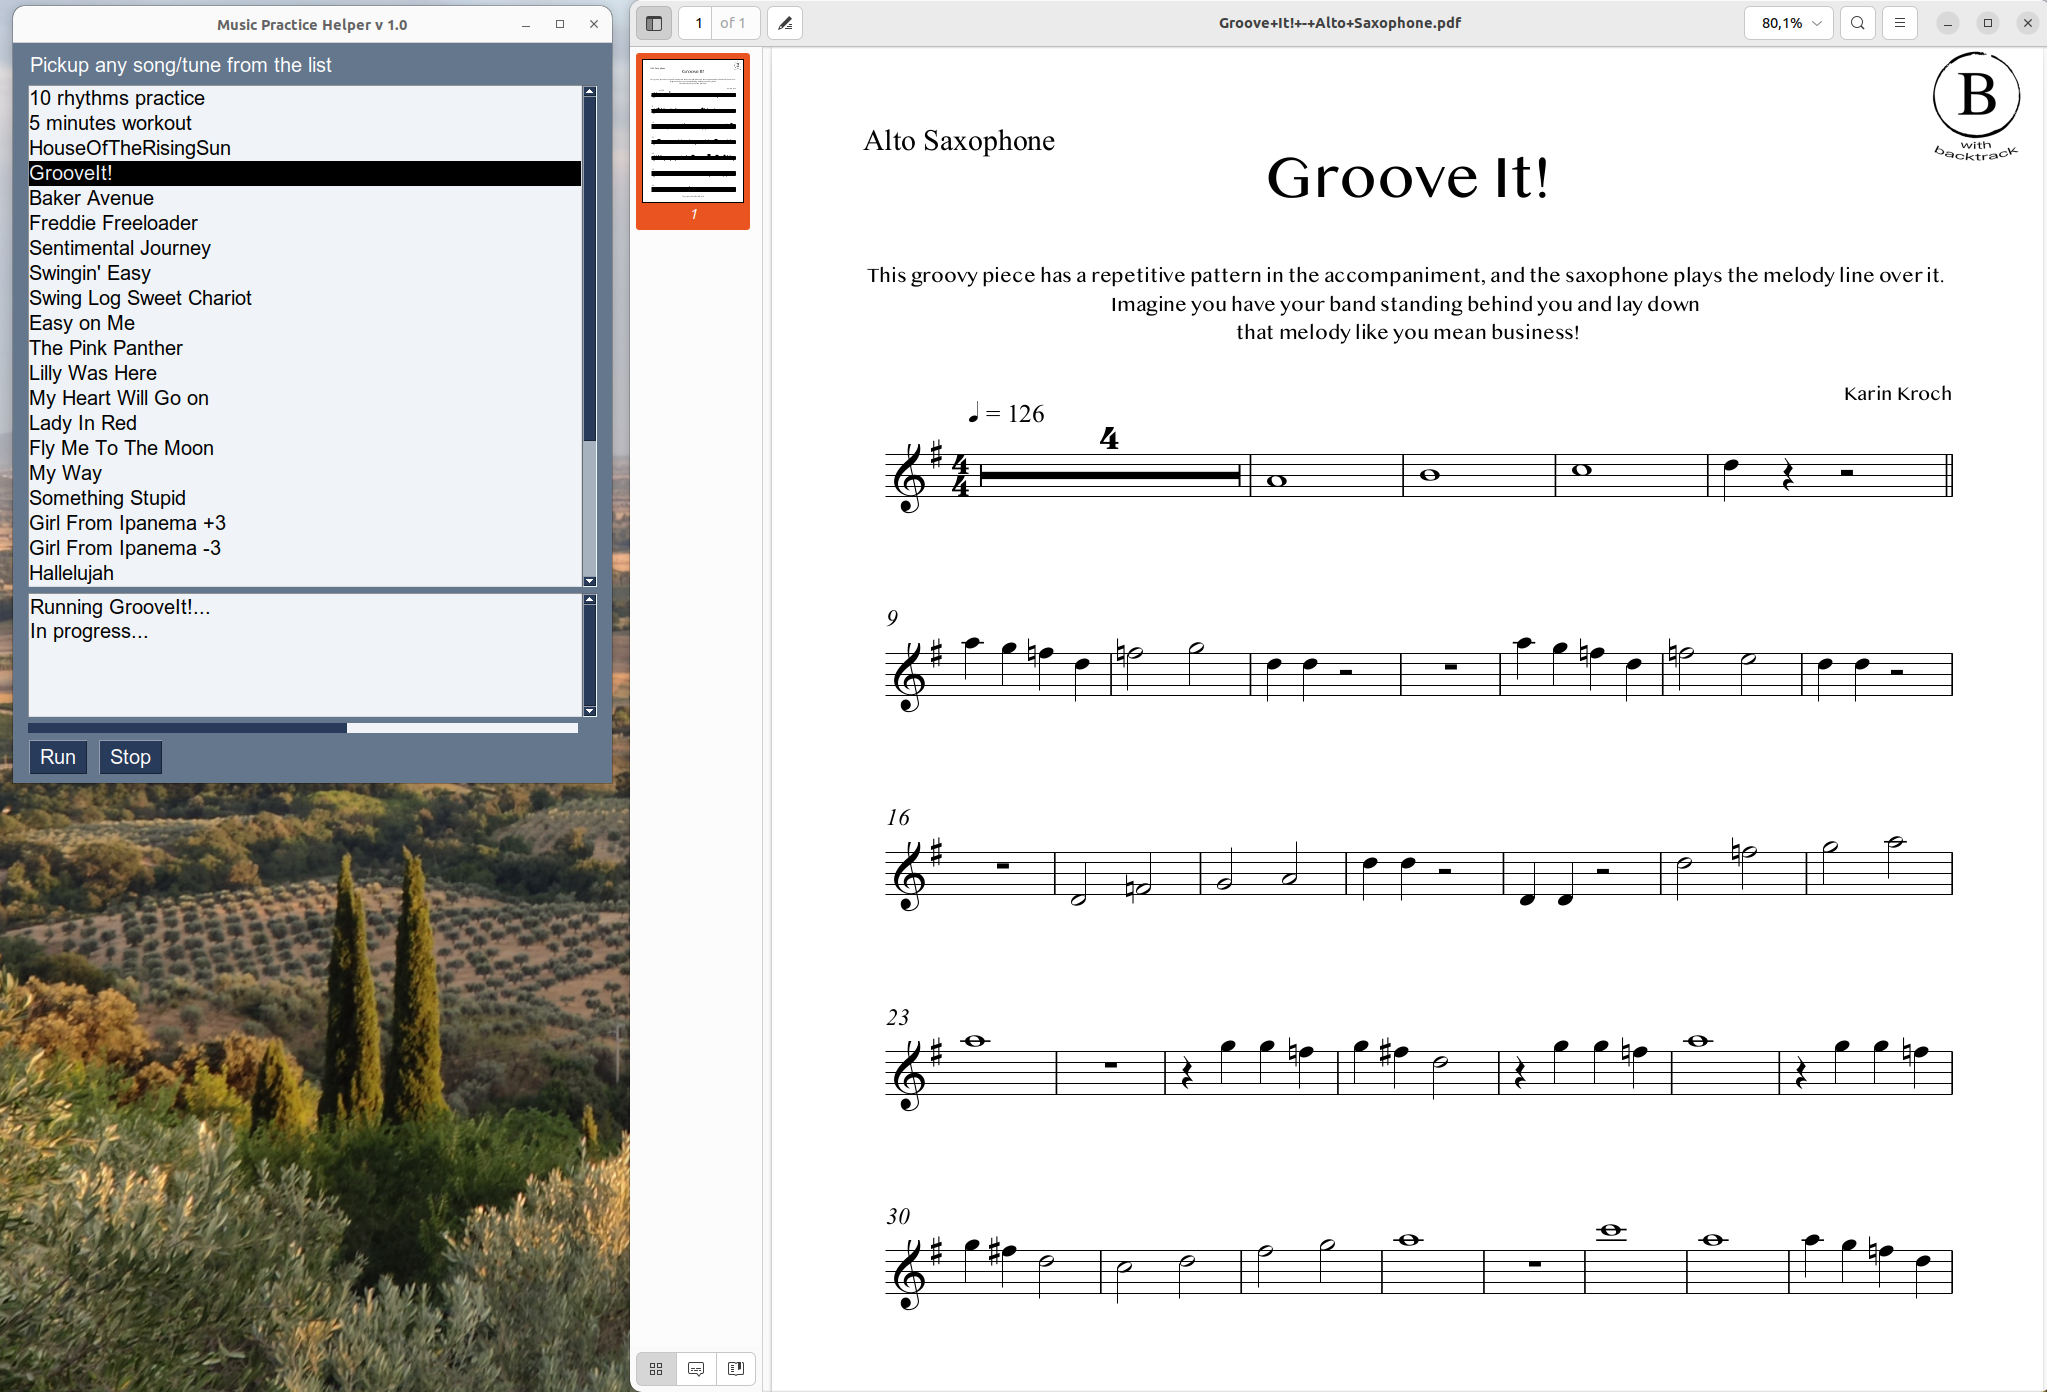
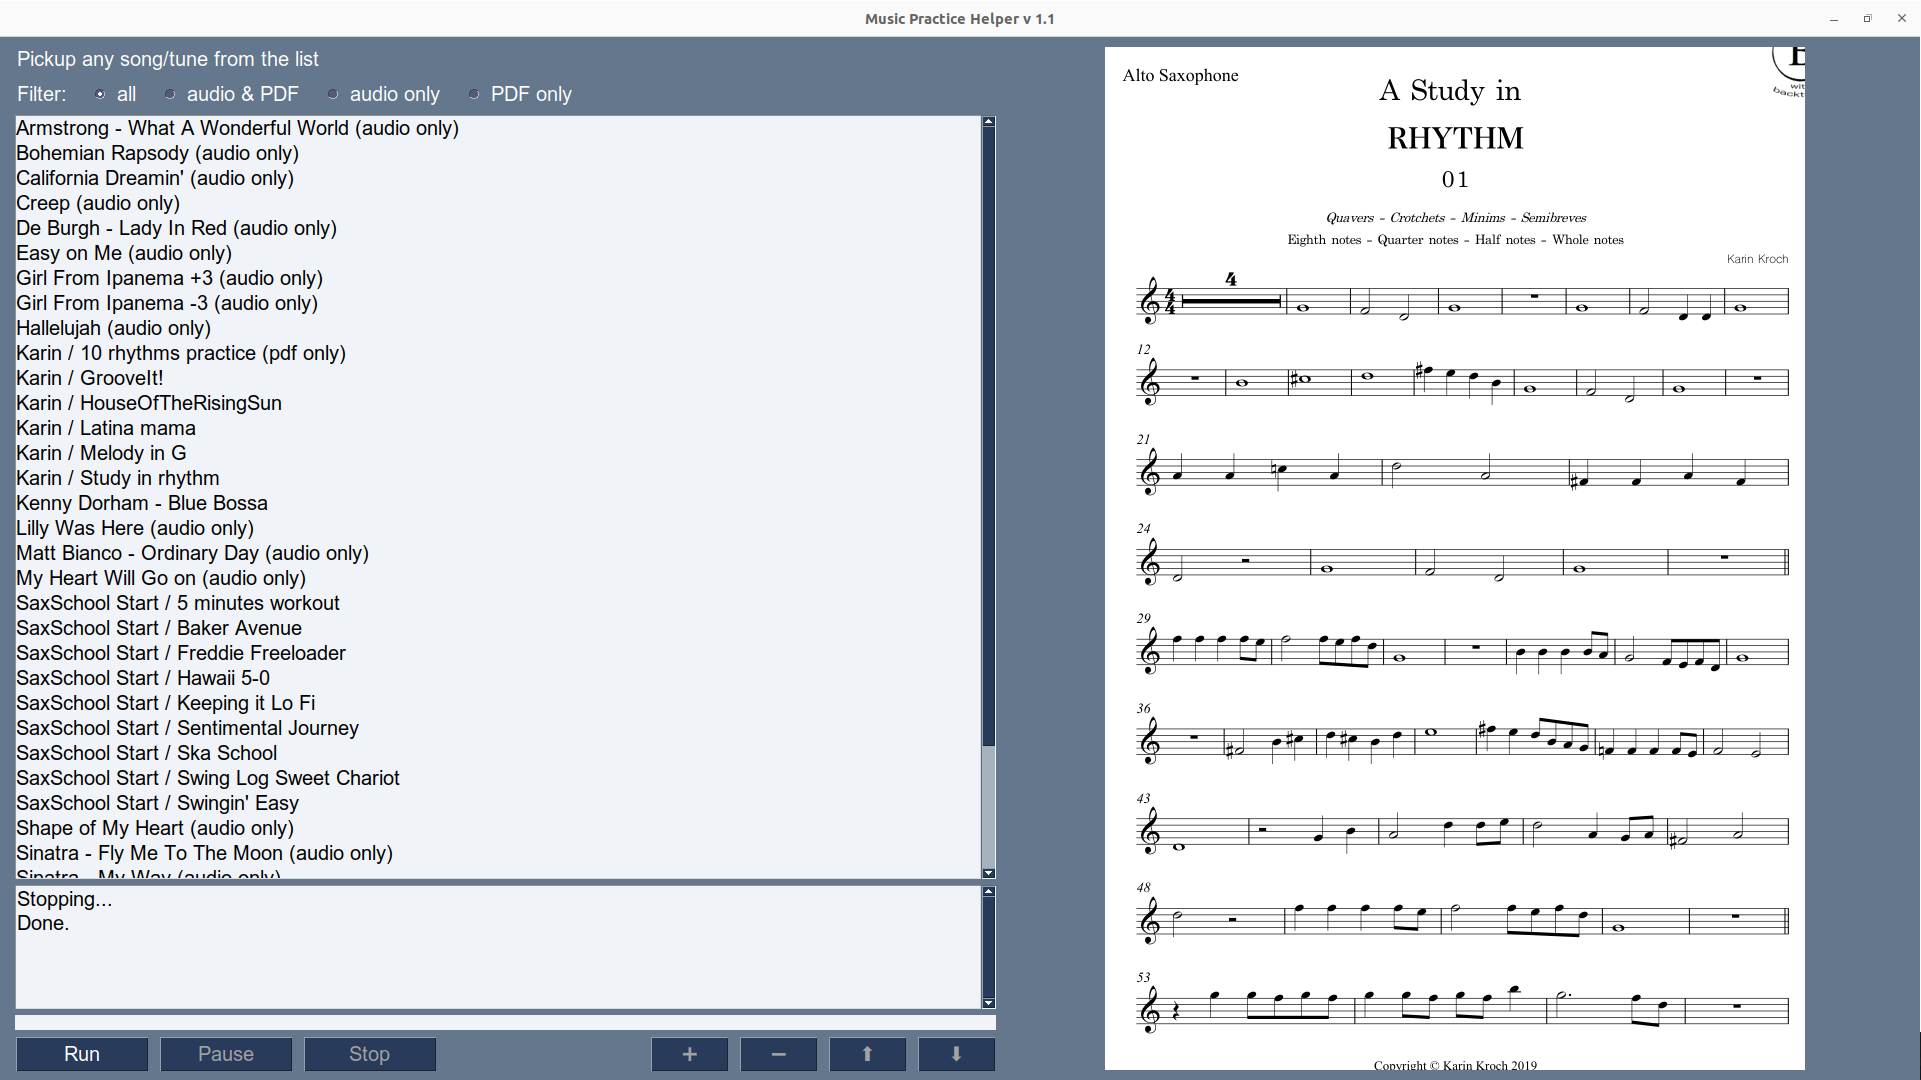
Update documentation

diff --git a/README.md b/README.md
@@ -1,15 +1,33 @@
 # Music Practice Helper
 
 The application helps to practice playing an instrument.
-It allows to run audio backtracks and open PDF documents with notes.
+It allows to run audio backtracks and open associated PDF documents with notes.
 
-## JSON
-File locations are defined in json file named `documents.json`. The app search for it in the following order:
+![Screenshot #1](./screen-1.png)
+
+![Screenshot #2](./screen-2.png)
+
+## Database
+
+File locations are configured in json file `documents.json`. The app search for the file in the following order:
 * current working directory
 * `$HOME/.music-practise/` (hidden sub-folder in you home folder)
 
 Take a look into `./documents-example.json` to see the expected syntax of the file.  
 
-## Demo
+## Functionality
 
-[![Demo1](https://img.youtube.com/vi/dRqd0R7KE38/0.jpg)](https://www.youtube.com/watch?v=dRqd0R7KE38)
+Filtering the content by:
+* Audio with associated PDF documents
+* Audio only
+* PDF only
+
+Playing control:
+* Play
+* Pause
+* Stop
+* Progress bar
+
+PDF viewer:
+* Next, prev page (PgDn/PgUp)
+* Zoom in/out (+/-)
